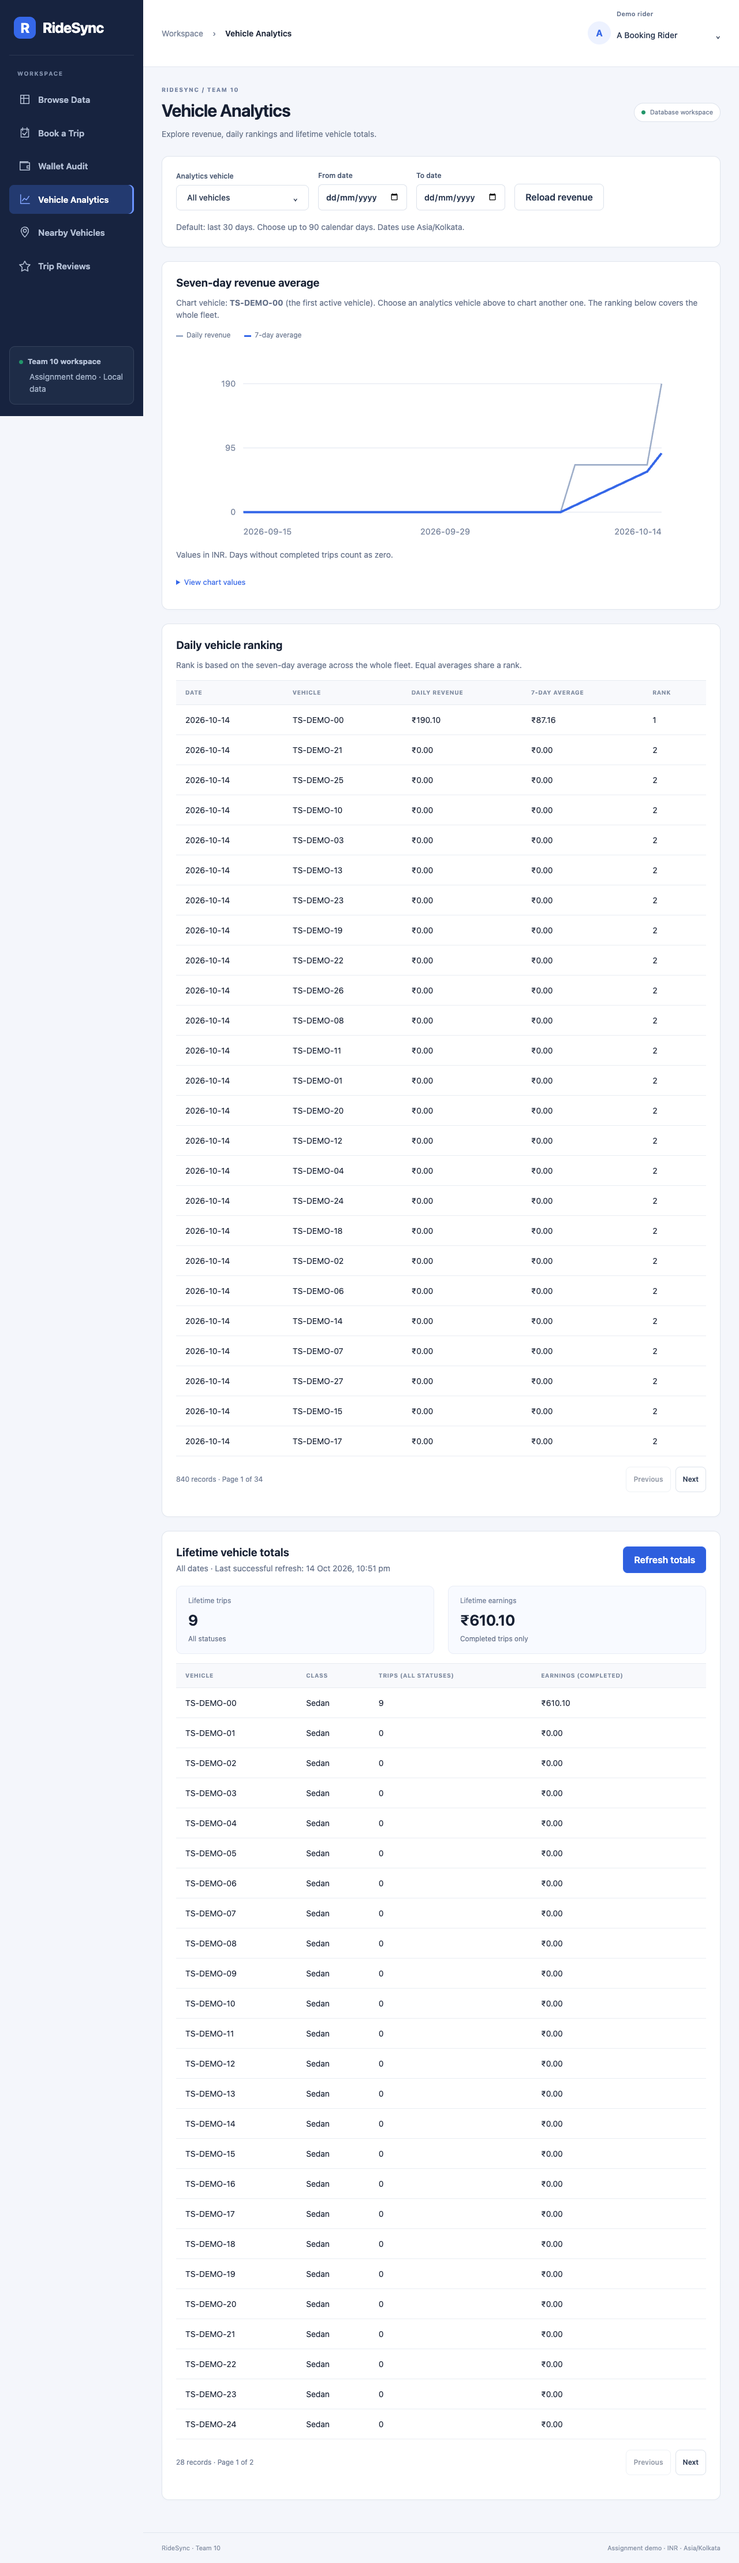
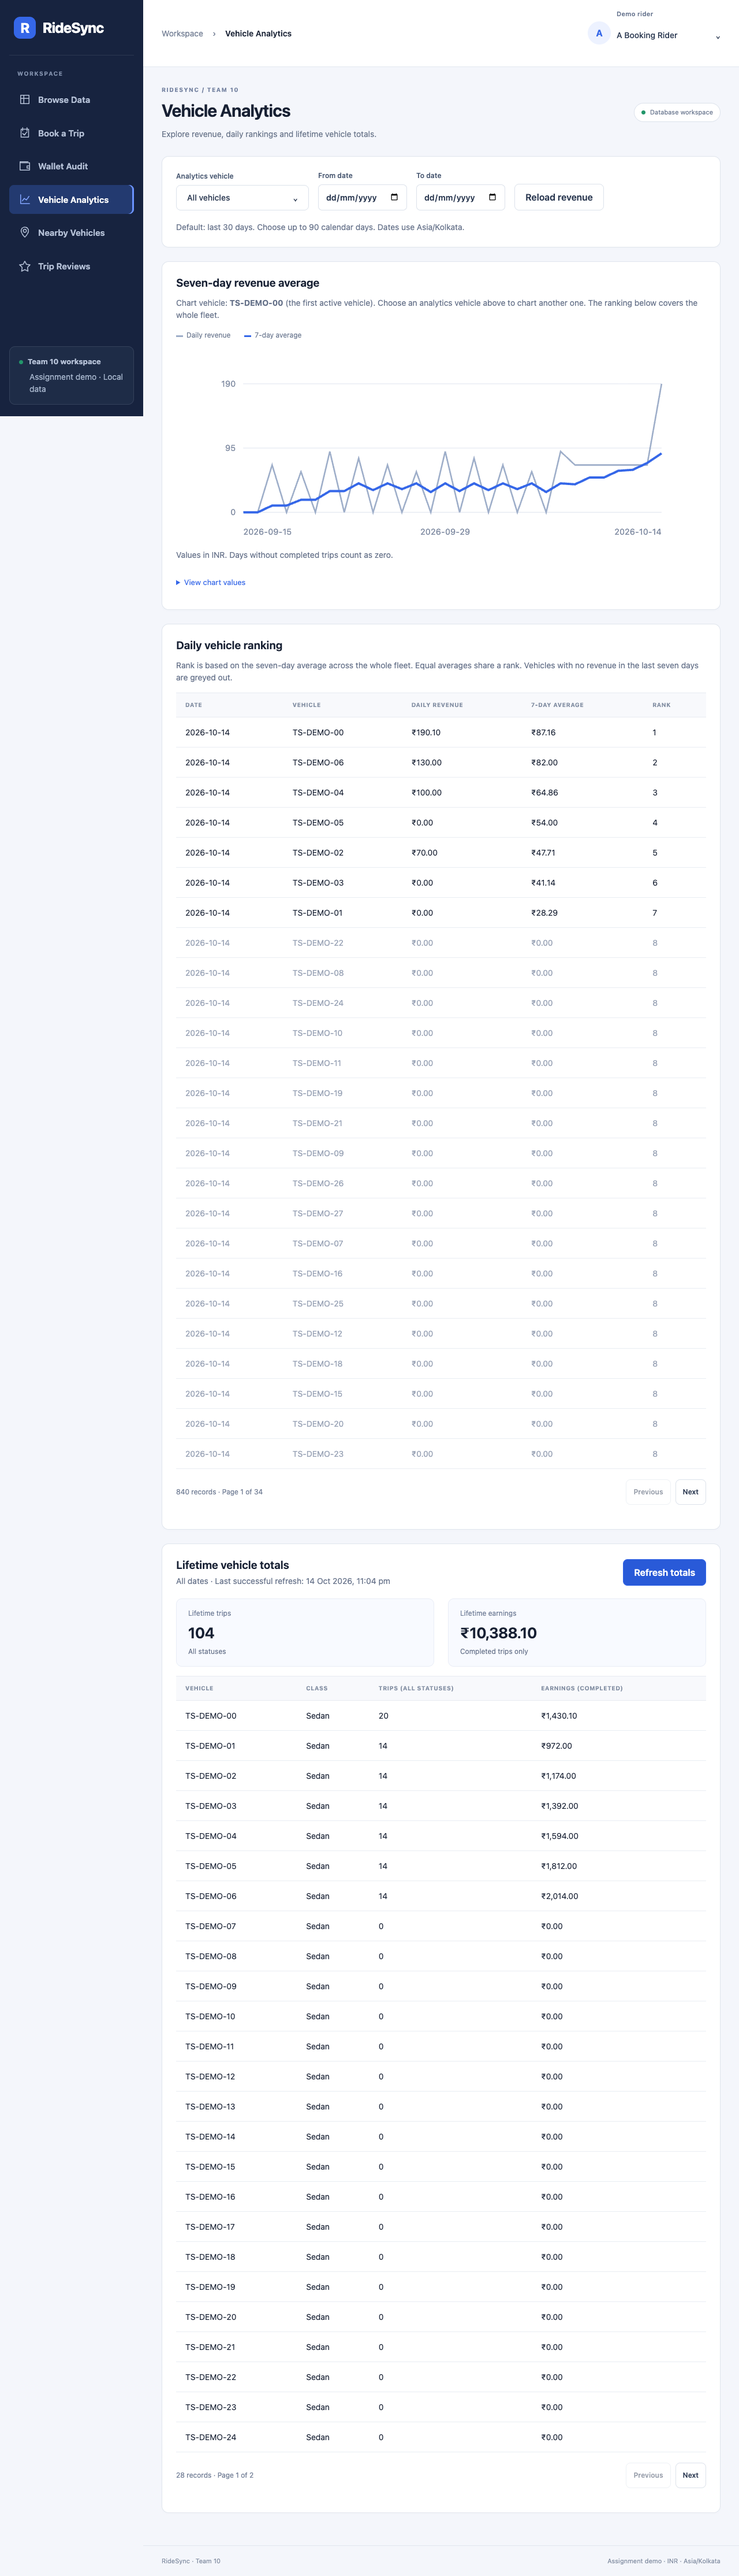
Make the analytics ranking and screenshot easier to read
Grey out vehicles with no revenue in the last seven days, and give the browser
test data trips on several vehicles over four weeks so the chart and ranking
show real variety. Only the analytics screenshot is replaced.

diff --git a/web/src/screens/Analytics.jsx b/web/src/screens/Analytics.jsx
@@ -27,9 +27,9 @@ export default function Analytics() {
     <section className="card"><h2>Seven-day revenue average</h2><Feedback query={revenue} hasRows={revenue.data?.series.length} empty="No active vehicle is available for a chart." />
       {revenue.data?.selectedVehicleId && <p className="muted">Chart vehicle: <strong>{chartVehicle.data?.vehicle.licensePlate || shortId(revenue.data.selectedVehicleId)}</strong>{!vehicle && ' (the first active vehicle). Choose an analytics vehicle above to chart another one. The ranking below covers the whole fleet.'}</p>}
       {revenue.data?.series.length > 0 && <RevenueChart rows={revenue.data.series} />}
-    </section><section className="card"><h2>Daily vehicle ranking</h2><p className="muted">Rank is based on the seven-day average across the whole fleet. Equal averages share a rank.</p>
+    </section><section className="card"><h2>Daily vehicle ranking</h2><p className="muted">Rank is based on the seven-day average across the whole fleet. Equal averages share a rank. Vehicles with no revenue in the last seven days are greyed out.</p>
       <Feedback query={revenue} hasRows={revenue.data?.rankings.length} empty="No ranking rows match these dates." quiet />
-      {revenue.data?.rankings.length > 0 && <Table label="Daily revenue ranks" rows={revenue.data.rankings} columns={[{ key: 'date', label: 'Date' }, { key: 'licensePlate', label: 'Vehicle' }, { key: 'dailyRevenue', label: 'Daily revenue', render: row => money(row.dailyRevenue) }, { key: 'movingAverage7Days', label: '7-day average', render: row => money(row.movingAverage7Days) }, { key: 'rank', label: 'Rank' }]} />}
+      {revenue.data?.rankings.length > 0 && <Table label="Daily revenue ranks" rows={revenue.data.rankings} rowClass={row => Number(row.dailyRevenue) === 0 && Number(row.movingAverage7Days) === 0 ? 'idle' : undefined} columns={[{ key: 'date', label: 'Date' }, { key: 'licensePlate', label: 'Vehicle' }, { key: 'dailyRevenue', label: 'Daily revenue', render: row => money(row.dailyRevenue) }, { key: 'movingAverage7Days', label: '7-day average', render: row => money(row.movingAverage7Days) }, { key: 'rank', label: 'Rank' }]} />}
       {revenue.data && <Pager page={page} total={revenue.data.total} onPage={setPage} disabled={revenue.loading} />}
     </section><section className="card"><div className="section-title spread"><div><h2>Lifetime vehicle totals</h2><p className="muted">All dates · Last successful refresh: {time(summary.data?.lastRefreshedAt)}</p></div>
       <button onClick={refresh} disabled={refreshing || summary.loading}>{refreshing ? 'Refreshing…' : 'Refresh totals'}</button></div>

diff --git a/web/src/components.jsx b/web/src/components.jsx
@@ -33,10 +33,10 @@ export function Pager({ page, pageSize = 25, total, onPage, disabled = false }) 
       <button className="secondary" disabled={disabled || page * pageSize >= total} onClick={() => onPage(page + 1)}>Next</button></div></div>
 }
 
-export function Table({ label, columns, rows }) {
+export function Table({ label, columns, rows, rowClass }) {
   return <div className="table-scroll" tabIndex="0" role="region" aria-label={label}>
     <table><caption className="sr-only">{label}</caption><thead><tr>{columns.map(column => <th key={column.key} scope="col" className={column.sticky ? 'sticky-end' : undefined}>{column.label}</th>)}</tr></thead>
-      <tbody>{rows.map((row, index) => <tr key={row.id || (row.vehicleId ? row.vehicleId + (row.date || '') : index)}>{columns.map(column => <td key={column.key} className={column.sticky ? 'sticky-end' : undefined}>{column.render ? column.render(row) : row[column.key]}</td>)}</tr>)}</tbody></table>
+      <tbody>{rows.map((row, index) => <tr key={row.id || (row.vehicleId ? row.vehicleId + (row.date || '') : index)} className={rowClass?.(row)}>{columns.map(column => <td key={column.key} className={column.sticky ? 'sticky-end' : undefined}>{column.render ? column.render(row) : row[column.key]}</td>)}</tr>)}</tbody></table>
   </div>
 }
 

diff --git a/web/src/styles.css b/web/src/styles.css
@@ -70,6 +70,7 @@ table { width: 100%; border-collapse: collapse; text-align: left; white-space: n
 th { color: #8490a4; background: #f8f9fc; text-transform: uppercase; font-size: 10px; letter-spacing: .6px; font-weight: 700; padding: 13px 16px; border-block: 1px solid #e7ebf1; }
 td { padding: 15px 16px; border-bottom: 1px solid #e9edf3; }
 tr:hover td { background: #fafbfe; }
+tr.idle td { color: #98a2b5; }
 th.sticky-end, td.sticky-end { position: sticky; right: 0; background: white; box-shadow: -6px 0 6px -6px #16264e26; }
 th.sticky-end { background: #f8f9fc; }
 tr:hover td.sticky-end { background: #fafbfe; }

diff --git a/tests/browser_server.py b/tests/browser_server.py
@@ -79,6 +79,15 @@ def seed(conn, db):
             trip = str(cur.fetchone()[0])
             db.TripReviews.insert_one(dict(trip_id=trip, vehicle_id=vehicles[0], rating=4 + index % 2,
                                            feedback_tags=['safe', 'on_time'], created_at=now - timedelta(days=index)))
+        # Extra completed trips over the last four weeks so the revenue chart and ranking look like real use.
+        for day in range(0, 28):
+            for index in range(1, 7):
+                if (day + index) % 2 == 0:
+                    cur.execute("INSERT INTO trips(rider_id,vehicle_id,fare_amount,status,created_at) VALUES(%s,%s,%s,'COMPLETED',%s)",
+                                (rider_ids[10 + (day + index) % 40], vehicles[index], 40 + 15 * index + (day * 7) % 30, now - timedelta(days=day)))
+            if day >= 7 and day % 2 == 1:
+                cur.execute("INSERT INTO trips(rider_id,vehicle_id,fare_amount,status,created_at) VALUES(%s,%s,%s,'COMPLETED',%s)",
+                            (rider_ids[10 + day % 40], vehicles[0], 55 + (day * 5) % 40, now - timedelta(days=day)))
         cur.execute('REFRESH MATERIALIZED VIEW mv_vehicle_lifetime_stats')
     db.VehicleMetadata.insert_one(dict(vehicle_id=vehicles[0], features=dict(wifi=True, pet_friendly=False),
                                        inspection_records=[dict(date=now, passed=True)], created_at=now))
